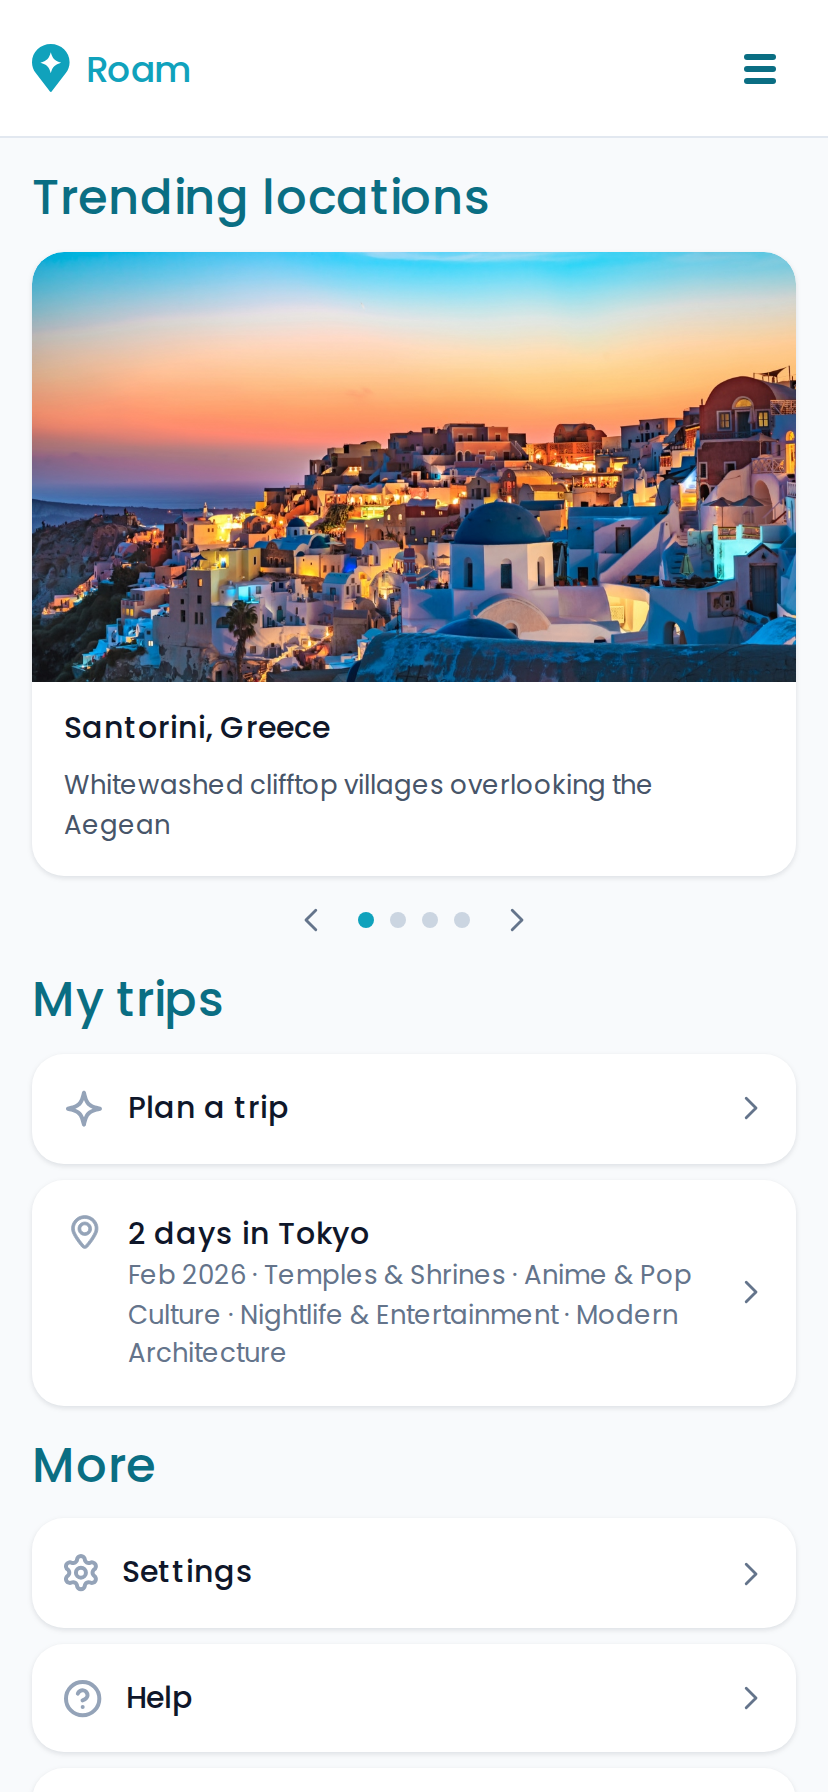
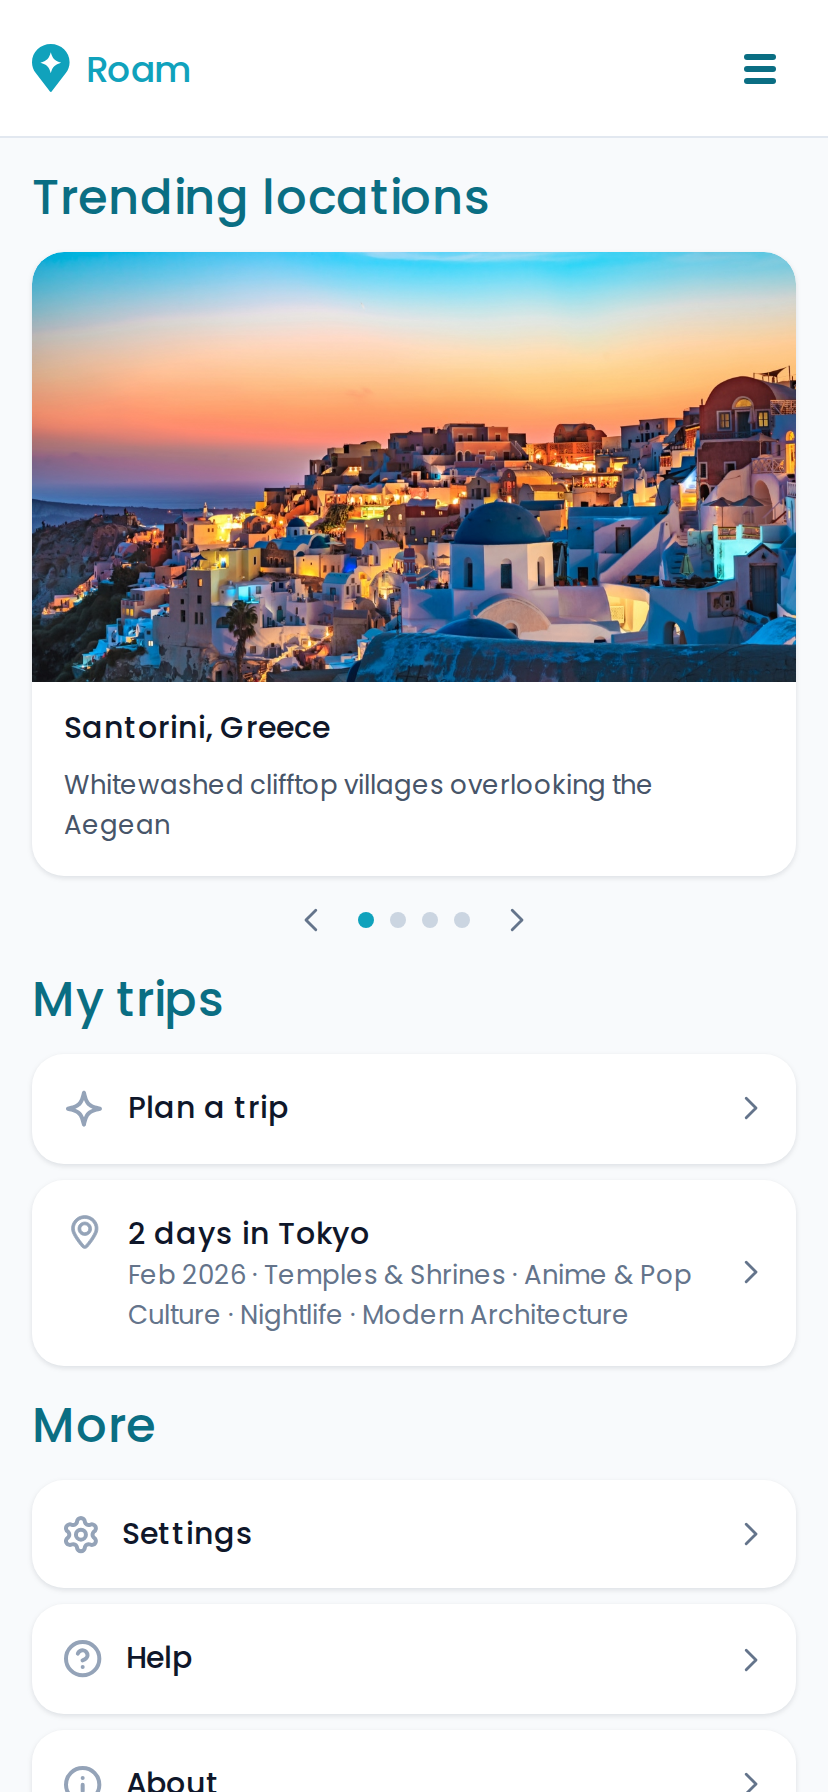
Use Nightlife chip label in Tokyo demo to match app

Changed region(s): [[0.0302, 0.75, 0.3321, 1.0], [0.4227, 0.7188, 0.8152, 0.75]]

diff --git a/src/data/demoTrips.js b/src/data/demoTrips.js
@@ -12,10 +12,10 @@ import { TOKYO_2_DAYS } from './savedTrips/tokyo'
 export const DEMO_TRIPS = [
   {
     title: '2 days in Tokyo',
-    subtitle: 'Feb 2026 · Temples & Shrines · Anime & Pop Culture · Nightlife & Entertainment · Modern Architecture',
+    subtitle: 'Feb 2026 · Temples & Shrines · Anime & Pop Culture · Nightlife · Modern Architecture',
     destination: 'Tokyo',
     days: 2,
-    interests: ['Temples & Shrines', 'Anime & Pop Culture', 'Nightlife & Entertainment', 'Modern Architecture'],
+    interests: ['Temples & Shrines', 'Anime & Pop Culture', 'Nightlife', 'Modern Architecture'],
     budget: 'Standard',
     accommodation: 'Hotel Chinzanso Tokyo',
     accommodationDetails: {
